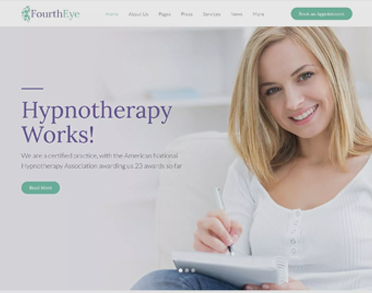
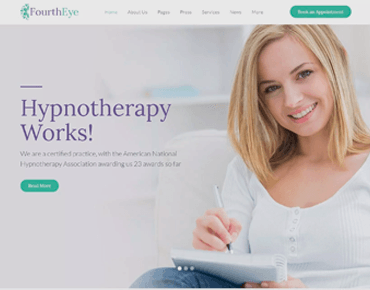
Add files via upload

diff --git a/css/main.css b/css/main.css
@@ -190,10 +190,11 @@
 
 .my-info__portriet {
 	position: absolute;
-	top: 42px;
-    right: 246px;
+	top: 55px;
+    right: 293px;
 	min-height: 651px;
 	max-width: 553px;
+	filter: drop-shadow(16px 16px 20px black);
 }
 
 
